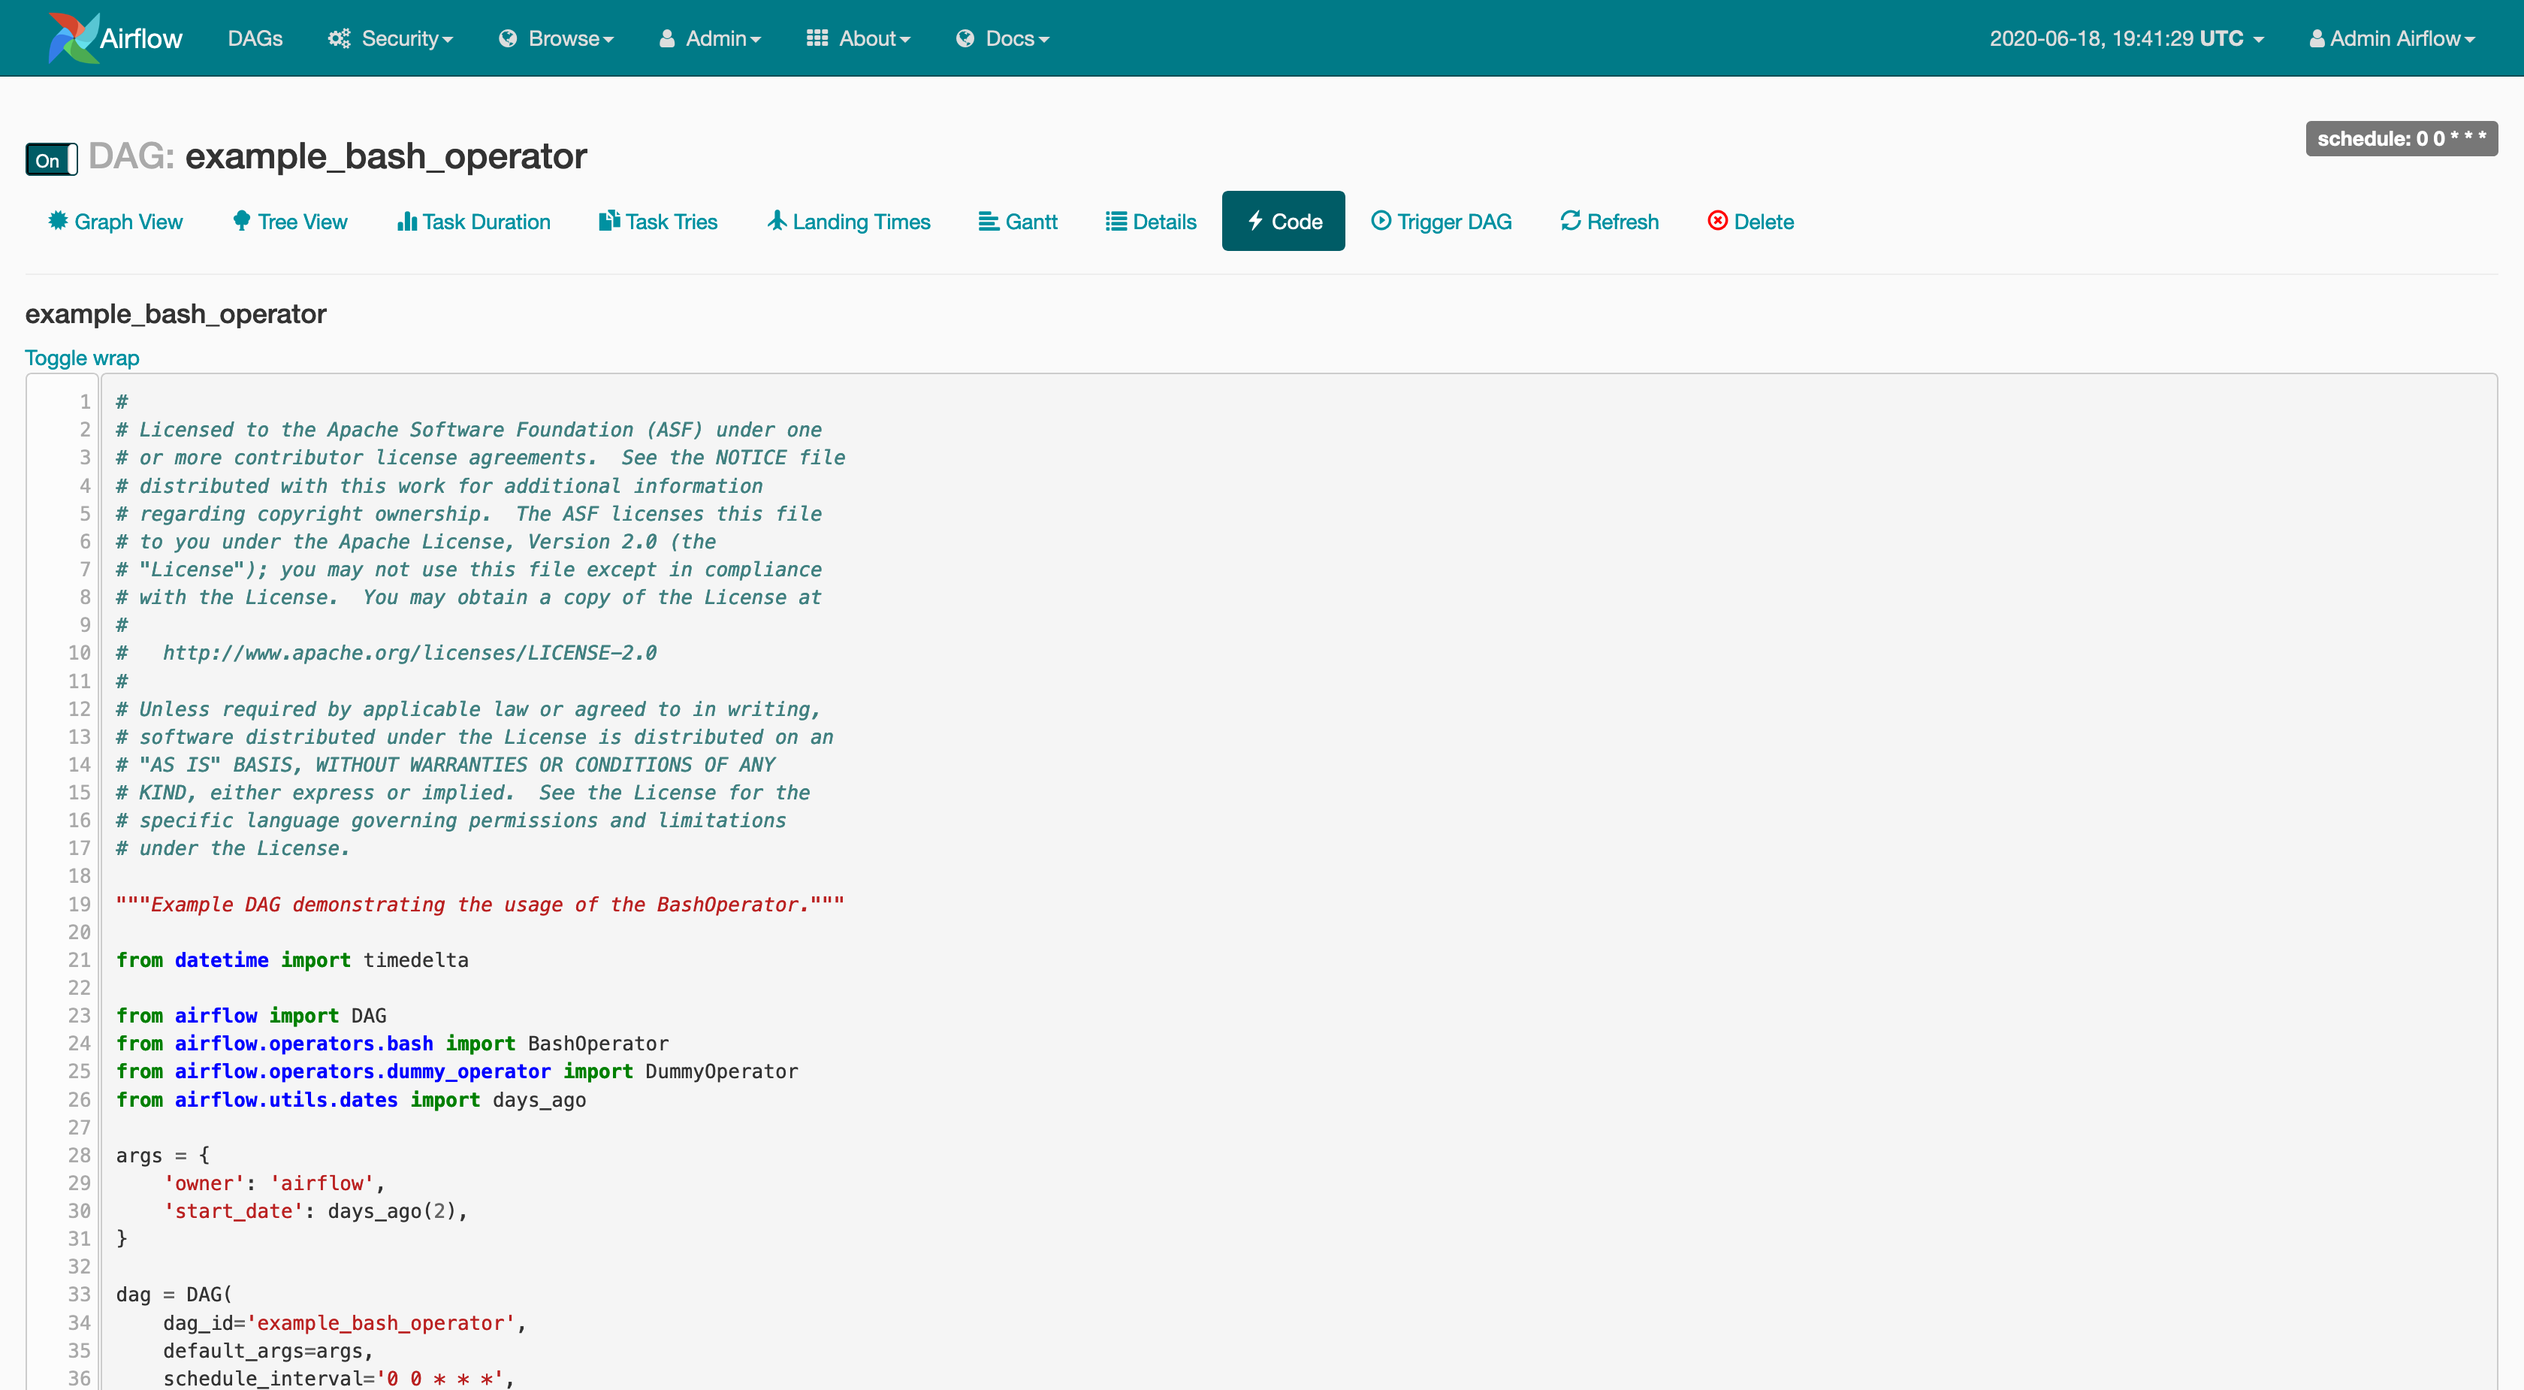
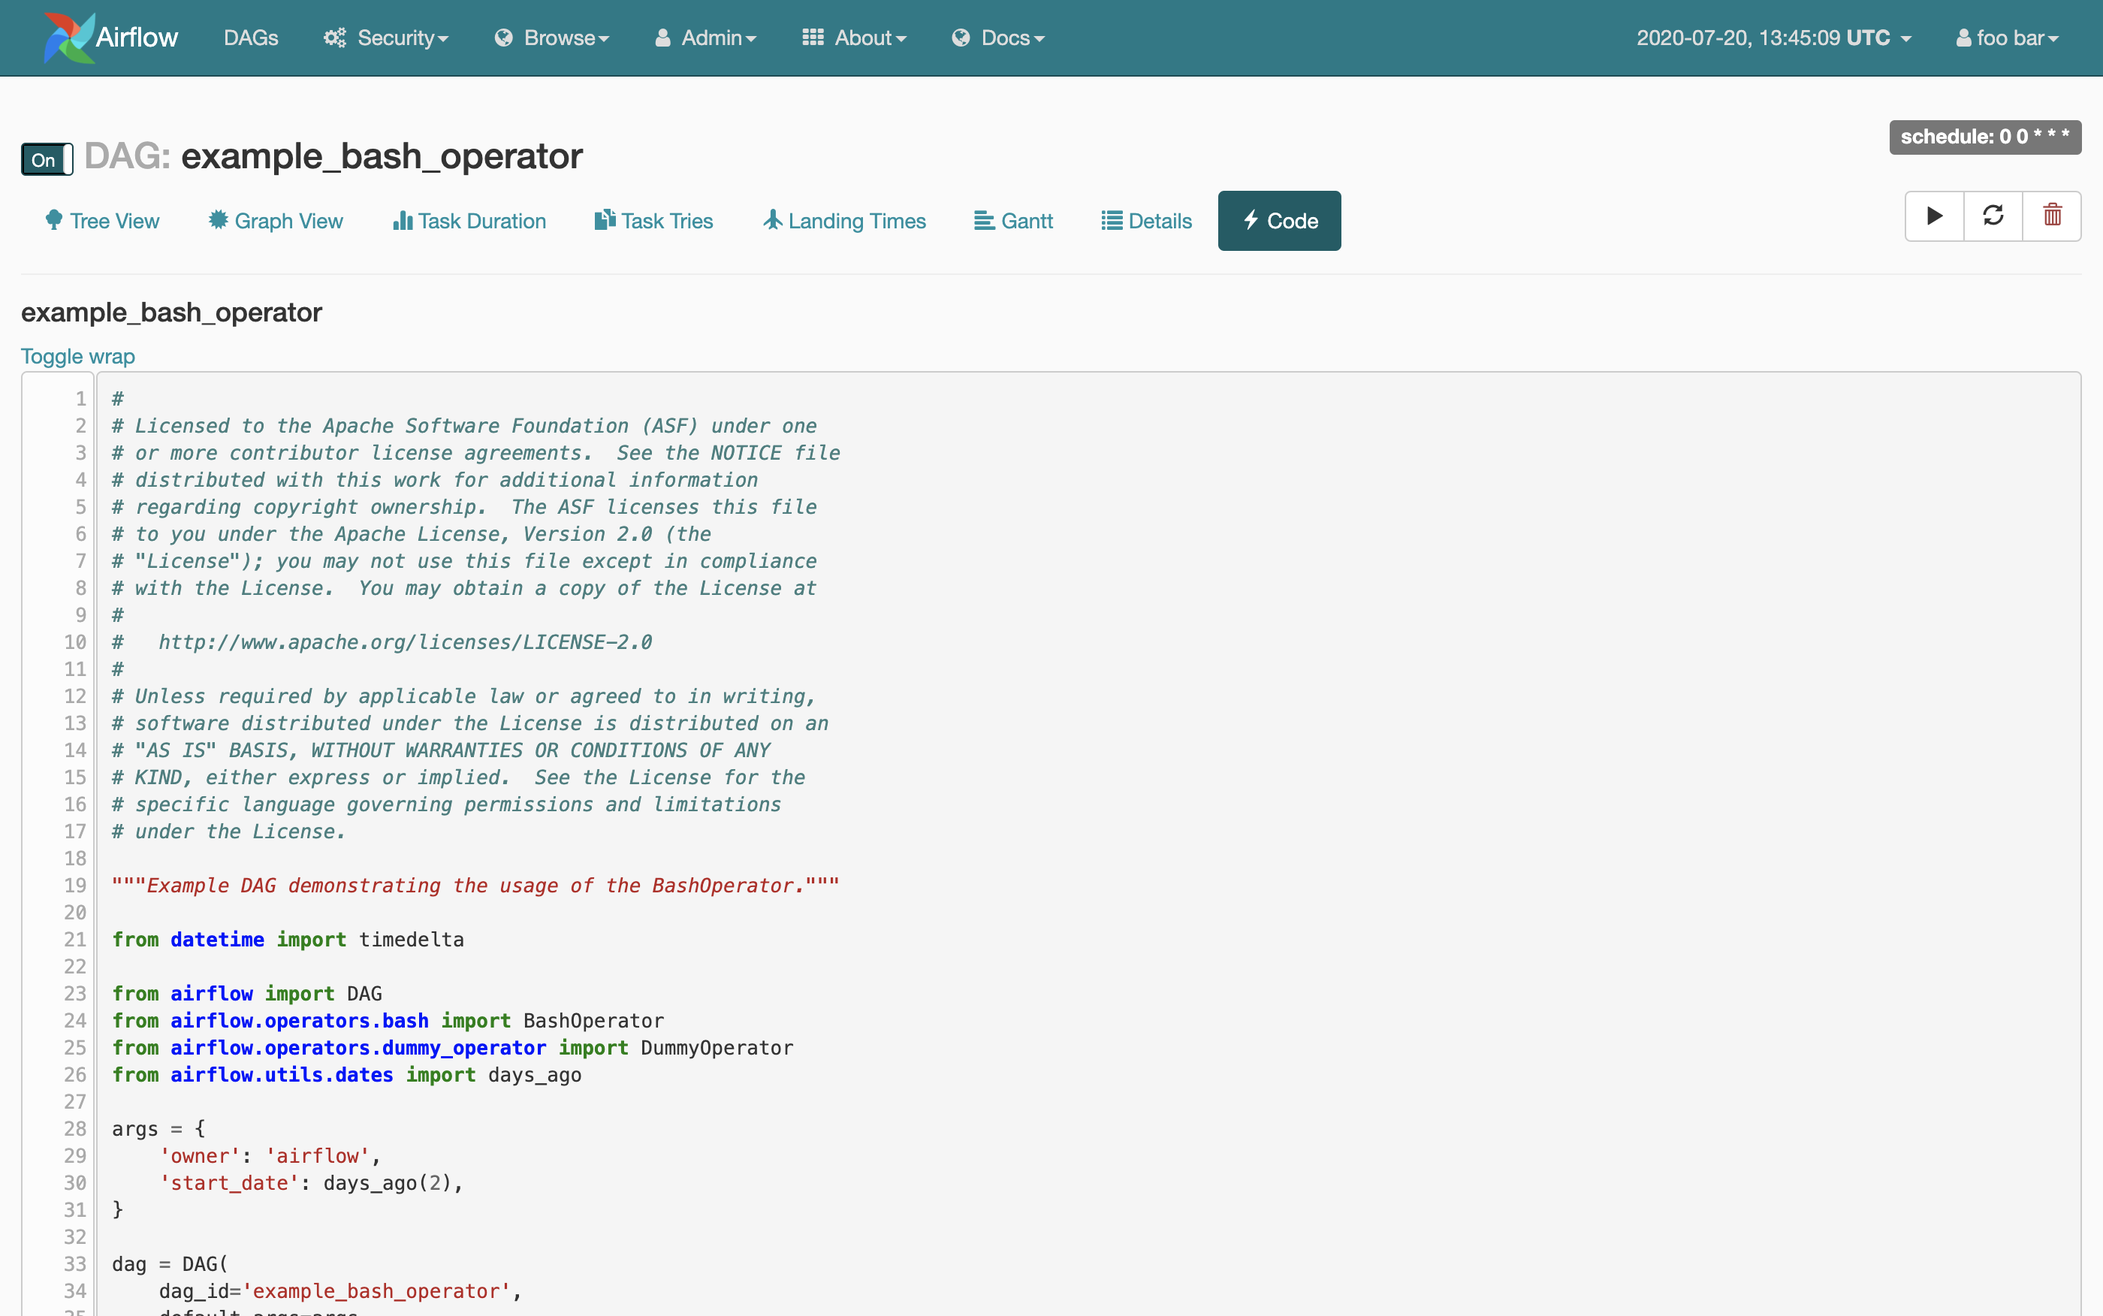
UX Enhancement: Separate actions from links in DAG navigation (#9894)

diff --git a/airflow/www/templates/airflow/dag.html b/airflow/www/templates/airflow/dag.html
@@ -55,73 +55,56 @@
     {% else %}
       {% set execution_date_arg = request.args.get('execution_date') %}
     {% endif %}
-    <ul class="nav nav-pills">
-      {% if dag.parent_dag is defined and dag.parent_dag %}
-          <li class="never_active"><a href="{{ url_for('Airflow.' + dag.default_view, dag_id=dag.parent_dag.dag_id, base_date=base_date_arg, execution_date=execution_date_arg) }}">
+    <div class="row">
+      <div class="col-md-10">
+        <ul class="nav nav-pills">
+          {% if dag.parent_dag is defined and dag.parent_dag %}
+            <li class="never_active"><a href="{{ url_for('Airflow.' + dag.default_view, dag_id=dag.parent_dag.dag_id, base_date=base_date_arg, execution_date=execution_date_arg) }}">
               <span class="glyphicon glyphicon-arrow-left" aria-hidden="true"></span>
-              Back to {{ dag.parent_dag.dag_id }}</a>
-          </li>
-      {% endif %}
-      <li><a href="{{ url_for('Airflow.graph', dag_id=dag.dag_id, root=root, num_runs=num_runs_arg, base_date=base_date_arg, execution_date=execution_date_arg) }}">
-          <span class="glyphicon glyphicon-certificate" aria-hidden="true"></span>
-        Graph View</a></li>
-      <li><a href="{{ url_for('Airflow.tree', dag_id=dag.dag_id, num_runs=num_runs_arg, root=root, base_date=base_date_arg) }}">
-          <span class="glyphicon glyphicon-tree-deciduous" aria-hidden="true"></span>
-        Tree View
-      </a></li>
-      <li><a href="{{ url_for('Airflow.duration', dag_id=dag.dag_id, days=30, root=root, num_runs=num_runs_arg, base_date=base_date_arg) }}">
-          <span class="glyphicon glyphicon-stats" aria-hidden="true"></span>
-          Task Duration
-      </a></li>
-      <li><a href="{{ url_for('Airflow.tries', dag_id=dag.dag_id, days=30, root=root, num_runs=num_runs_arg, base_date=base_date_arg) }}">
-          <span class="glyphicon glyphicon-duplicate" aria-hidden="true"></span>
-          Task Tries
-      </a></li>
-      <li>
-        <a href="{{ url_for('Airflow.landing_times', dag_id=dag.dag_id, days=30, root=root, num_runs=num_runs_arg, base_date=base_date_arg) }}">
-          <span class="glyphicon glyphicon-plane" aria-hidden="true"></span>
-          Landing Times
-        </a>
-      </li>
-      <li>
-        <a href="{{ url_for('Airflow.gantt', dag_id=dag.dag_id, root=root, num_runs=num_runs_arg, base_date=base_date_arg, execution_date=execution_date_arg) }}">
-          <span class="glyphicon glyphicon-align-left" aria-hidden="true"></span>
-          <i class="icon-align-left"></i>
-          Gantt
-        </a>
-      </li>
-      <li>
-      <a href="{{ url_for('Airflow.dag_details', dag_id=dag.dag_id) }}">
-          <span class="glyphicon glyphicon-list" aria-hidden="true"></span>
-          Details
-        </a>
-      </li>
-      <li>
-        <a href="{{ url_for('Airflow.code', dag_id=dag.dag_id, root=root) }}">
-          <span class="glyphicon glyphicon-file" aria-hidden="true"></span>
-          Code
-        </a>
-      </li>
-      <li>
-        <a href="{{ url_for('Airflow.trigger', dag_id=dag.dag_id, origin=url_for('Airflow.' + dag.default_view, dag_id=dag.dag_id)) }}">
-          <span class="glyphicon glyphicon-play-circle" aria-hidden="true"></span>
-          Trigger DAG
-        </a>
-      </li>
-      <li>
-        <a href="{{ url_for('Airflow.refresh', dag_id=dag.dag_id) }}" title="Refresh" onclick="postAsForm(this.href); return false">
-          <span class="glyphicon glyphicon-refresh" aria-hidden="true"></span>
-          Refresh
-        </a>
-      </li>
-      <li>
-        <a href="{{ url_for('Airflow.delete', dag_id=dag.dag_id) }}"
-          onclick="return confirmDeleteDag(this, '{{ dag.safe_dag_id }}')">
-          <span class="glyphicon glyphicon-remove-circle" style="color:red" aria-hidden="true"></span>
-          Delete
-        </a>
-      </li>
-    </ul>
+              Back to {{ dag.parent_dag.dag_id }}</a></li>
+          {% endif %}
+          <li><a href="{{ url_for('Airflow.tree', dag_id=dag.dag_id, num_runs=num_runs_arg, root=root, base_date=base_date_arg) }}">
+            <span class="glyphicon glyphicon-tree-deciduous" aria-hidden="true"></span>
+            Tree View
+          </a></li>
+          <li><a href="{{ url_for('Airflow.graph', dag_id=dag.dag_id, root=root, num_runs=num_runs_arg, base_date=base_date_arg, execution_date=execution_date_arg) }}">
+            <span class="glyphicon glyphicon-certificate" aria-hidden="true"></span>
+            Graph View</a></li>
+          <li><a href="{{ url_for('Airflow.duration', dag_id=dag.dag_id, days=30, root=root, num_runs=num_runs_arg, base_date=base_date_arg) }}">
+            <span class="glyphicon glyphicon-stats" aria-hidden="true"></span>
+            Task Duration</a></li>
+          <li><a href="{{ url_for('Airflow.tries', dag_id=dag.dag_id, days=30, root=root, num_runs=num_runs_arg, base_date=base_date_arg) }}">
+            <span class="glyphicon glyphicon-duplicate" aria-hidden="true"></span>
+            Task Tries</a></li>
+          <li><a href="{{ url_for('Airflow.landing_times', dag_id=dag.dag_id, days=30, root=root, num_runs=num_runs_arg, base_date=base_date_arg) }}">
+            <span class="glyphicon glyphicon-plane" aria-hidden="true"></span>
+            Landing Times</a></li>
+          <li><a href="{{ url_for('Airflow.gantt', dag_id=dag.dag_id, root=root, num_runs=num_runs_arg, base_date=base_date_arg, execution_date=execution_date_arg) }}">
+            <span class="glyphicon glyphicon-align-left" aria-hidden="true"></span>
+            Gantt</a></li>
+          <li><a href="{{ url_for('Airflow.dag_details', dag_id=dag.dag_id) }}">
+            <span class="glyphicon glyphicon-list" aria-hidden="true"></span>
+            Details</a></li>
+          <li><a href="{{ url_for('Airflow.code', dag_id=dag.dag_id, root=root) }}">
+            <span class="glyphicon glyphicon-file" aria-hidden="true"></span>
+            Code</a></li>
+        </ul>
+      </div>
+      <div class="col-md-2">
+        <div class="btn-group pull-right">
+          <a href="{{ url_for('Airflow.trigger', dag_id=dag.dag_id, origin=url_for('Airflow.' + dag.default_view, dag_id=dag.dag_id)) }}" title="Trigger DAG" aria-label="Trigger DAG" class="btn btn-default">
+            <span class="glyphicon glyphicon-play" aria-hidden="true"></span>
+          </a>
+          <a href="{{ url_for('Airflow.refresh', dag_id=dag.dag_id) }}" title="Refresh DAG" aria-label="Refresh DAG" onclick="postAsForm(this.href); return false" class="btn btn-default">
+            <span class="glyphicon glyphicon-refresh" aria-hidden="true"></span>
+          </a>
+          <a href="{{ url_for('Airflow.delete', dag_id=dag.dag_id) }}" title="Delete&nbsp;DAG" class="btn btn-default"
+            onclick="return confirmDeleteDag(this, '{{ dag.safe_dag_id }}')" aria-label="Delete DAG">
+            <span class="glyphicon glyphicon-trash text-danger" aria-hidden="true"></span>
+          </a>
+        </div>
+      </div>
+    </div>
   </div>
   <hr>
   <!-- Modal -->
@@ -143,9 +126,9 @@
         <div class="modal-body">
           <div id="div_btn_subdag">
             <a id="btn_subdag" type="button" class="btn btn-primary" data-base-url="{{ url_for('Airflow.' + dag.default_view) }}">
-                Zoom into Sub DAG
-              </a>
-              <hr/>
+              Zoom into Sub DAG
+            </a>
+            <hr/>
           </div>
           <a id="btn_task" type="button" class="btn btn-primary" data-base-url="{{ url_for('Airflow.task') }}">
             Task Instance Details
@@ -169,11 +152,11 @@
           </div>
           <div id="dag_redir_logs">
             {% if external_log_name is defined %}
-            <label style="display:inline"> View Logs in {{ external_log_name }} (by attempts): </label>
-            <ul class="nav nav-pills" role="tablist" id="redir_log_try_index" style="display:inline">
-            </ul>
-            <hr/>
-            <hr/>
+              <label style="display:inline"> View Logs in {{ external_log_name }} (by attempts): </label>
+              <ul class="nav nav-pills" role="tablist" id="redir_log_try_index" style="display:inline">
+              </ul>
+              <hr/>
+              <hr/>
             {% endif %}
           </div>
           <form method="POST">
@@ -289,8 +272,7 @@
             </span>
           </form>
           <hr/>
-            <span class="btn-group" id="extra_links">
-            </span>
+          <span class="btn-group" id="extra_links"></span>
         </div>
 
         <div class="modal-footer">
@@ -345,16 +327,16 @@
   {{ super() }}
   <script src="{{ url_for_asset('bootstrap-toggle.min.js') }}"></script>
   <script>
-function updateQueryStringParameter(uri, key, value) {
-  var re = new RegExp("([?&])" + key + "=.*?(&|$)", "i");
-  var separator = uri.indexOf('?') !== -1 ? "&" : "?";
-  if (uri.match(re)) {
-    return uri.replace(re, '$1' + key + "=" + value + '$2');
-  }
-  else {
-    return uri + separator + key + "=" + value;
-  }
-}
+    function updateQueryStringParameter(uri, key, value) {
+      var re = new RegExp("([?&])" + key + "=.*?(&|$)", "i");
+      var separator = uri.indexOf('?') !== -1 ? "&" : "?";
+      if (uri.match(re)) {
+        return uri.replace(re, '$1' + key + "=" + value + '$2');
+      }
+      else {
+        return uri + separator + key + "=" + value;
+      }
+    }
 
     // Pills highlighting
     $(document).ready(function () {
@@ -418,7 +400,6 @@ function updateQueryStringParameter(uri, key, value) {
         task_id: task_id,
         execution_date: execution_date,
       });
-
     }
 
     function call_modal(t, d, extra_links, try_numbers, sd) {
@@ -523,7 +504,6 @@ function updateQueryStringParameter(uri, key, value) {
         $('#extra_links').append(markupArr).show();
         $('[data-toggle="tooltip"]').tooltip();
       }
-
     }
 
     function call_modal_dag(dag) {
@@ -584,6 +564,5 @@ function updateQueryStringParameter(uri, key, value) {
         $buttons.addClass('btn-danger');
       });
     });
-
   </script>
 {% endblock %}

diff --git a/airflow/www/templates/airflow/dags.html b/airflow/www/templates/airflow/dags.html
@@ -160,61 +160,61 @@
             <td class="text-center" style="display:flex;flex-direction:row;justify-content:space-around;">
               {% if dag %}
                 <!-- Trigger Dag -->
-                <a href="{{ url_for('Airflow.trigger', dag_id=dag.dag_id) }}">
-                  <span class="glyphicon glyphicon-play-circle" aria-hidden="true" data-original-title="Trigger Dag"></span>
+                <a href="{{ url_for('Airflow.trigger', dag_id=dag.dag_id) }}" aria-label="Trigger DAG">
+                  <span class="glyphicon glyphicon-play" aria-hidden="true" data-original-title="Trigger DAG"></span>
                 </a>
 
                 <!-- Tree -->
-                <a href="{{ url_for('Airflow.tree', dag_id=dag.dag_id, num_runs=num_runs) }}">
+                <a href="{{ url_for('Airflow.tree', dag_id=dag.dag_id, num_runs=num_runs) }}" aria-label="Tree View">
                   <span class="glyphicon glyphicon-tree-deciduous" aria-hidden="true" data-original-title="Tree View"></span>
                 </a>
 
                 <!-- Graph -->
-                <a href="{{ url_for('Airflow.graph', dag_id=dag.dag_id) }}">
+                <a href="{{ url_for('Airflow.graph', dag_id=dag.dag_id) }}" aria-label="Graph View">
                   <span class="glyphicon glyphicon-certificate" aria-hidden="true" data-original-title="Graph View"></span>
                 </a>
 
                 <!-- Duration -->
-                <a href="{{ url_for('Airflow.duration', dag_id=dag.dag_id) }}">
+                <a href="{{ url_for('Airflow.duration', dag_id=dag.dag_id) }}" aria-label="Task Duration">
                   <span class="glyphicon glyphicon-stats" aria-hidden="true" data-original-title="Tasks Duration"></span>
                 </a>
 
                 <!-- Retries -->
-                <a href="{{ url_for('Airflow.tries', dag_id=dag.dag_id) }}">
+                <a href="{{ url_for('Airflow.tries', dag_id=dag.dag_id) }}" aria-label="Task Tries">
                   <span class="glyphicon glyphicon-duplicate" aria-hidden="true" data-original-title="Task Tries"></span>
                 </a>
 
                 <!-- Landing Times -->
-                <a href="{{ url_for("Airflow.landing_times", dag_id=dag.dag_id) }}">
+                <a href="{{ url_for('Airflow.landing_times', dag_id=dag.dag_id) }}" aria-label="Landing Times">
                   <span class="glyphicon glyphicon-plane" aria-hidden="true" data-original-title="Landing Times"></span>
                 </a>
 
                 <!-- Gantt -->
-                <a href="{{ url_for("Airflow.gantt", dag_id=dag.dag_id) }}">
-                  <span class="glyphicon glyphicon-align-left" aria-hidden="true" data-original-title="Gantt View"></span>
+                <a href="{{ url_for('Airflow.gantt', dag_id=dag.dag_id) }}" aria-label="Gantt">
+                  <span class="glyphicon glyphicon-align-left" aria-hidden="true" data-original-title="Gantt"></span>
                 </a>
 
                 <!-- Code -->
-                <a href="{{ url_for("Airflow.code", dag_id=dag.dag_id) }}">
-                  <span class="glyphicon glyphicon-file" aria-hidden="true" data-original-title="Code View"></span>
+                <a href="{{ url_for('Airflow.code', dag_id=dag.dag_id) }}" aria-label="Code">
+                  <span class="glyphicon glyphicon-file" aria-hidden="true" data-original-title="Code"></span>
                 </a>
 
                 <!-- Logs -->
-                <a href="{{ url_for('LogModelView.list') }}?_flt_3_dag_id={{ dag.dag_id }}&_od_LogModelView=desc&_oc_LogModelView=dttm">
+                <a href="{{ url_for('LogModelView.list') }}?_flt_3_dag_id={{ dag.dag_id }}&_od_LogModelView=desc&_oc_LogModelView=dttm" aria-label="Logs">
                   <span class="glyphicon glyphicon-align-justify" aria-hidden="true" data-original-title="Logs"></span>
                 </a>
               {% endif %}
 
               <!-- Refresh -->
-              <a href="{{ url_for("Airflow.refresh", dag_id=dag.dag_id) }}" onclick="postAsForm(this.href); return false">
+              <a href="{{ url_for('Airflow.refresh', dag_id=dag.dag_id) }}" onclick="postAsForm(this.href); return false" aria-label="Refresh DAG">
                 <span class="glyphicon glyphicon-refresh" aria-hidden="true" data-original-title="Refresh"></span>
               </a>
 
               <!-- Delete -->
               <!-- Use dag_id instead of dag.dag_id, because the DAG might not exist in the webserver's DagBag -->
               <a href="{{ url_for('Airflow.delete', dag_id=dag.dag_id) }}"
-                onclick="return confirmDeleteDag(this, '{{ dag.dag_id }}')">
-                <span class="glyphicon glyphicon-remove-circle" style="color:red" aria-hidden="true" data-original-title="Delete Dag"></span>
+                onclick="return confirmDeleteDag(this, '{{ dag.dag_id }}')" class="text-danger" aria-label="Delete DAG">
+                <span class="glyphicon glyphicon-trash" aria-hidden="true" data-original-title="Delete&nbsp;Dag"></span>
               </a>
             </td>
           </tr>
